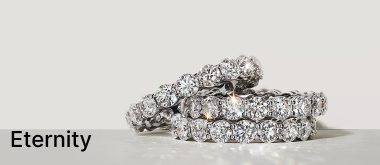
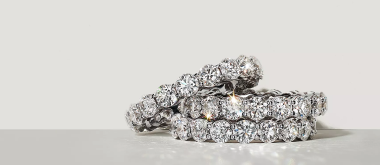
shop all

Changed region(s): [[0.0289, 0.7879, 0.2605, 0.9394]]

diff --git a/src/app/pages/rings/rings.component.html b/src/app/pages/rings/rings.component.html
@@ -10,21 +10,46 @@
 
   <!--category-top-->
   <div class="category-top row pbt-100">
-    <div class="col-3 sub-cate-box">
-      <a routerLink="">
-        <img src="./assets/img/rings/1.png" />
-      </a>
+    <div class="col-3">
+        <a routerLink="">
+          <img src="./assets/img/rings/1.png" />
+        </a>
     </div>
-    <div class="col-3 sub-cate-box">
-      <a routerLink="#">
-        <img src="./assets/img/rings/2.png" />
-      </a>
+    <div class="col-3">
+      <div class="sub-cate-box">
+        <div class="sub-cate-img">
+          <a routerLink="#">
+            <img src="./assets/img/rings/2.png" />
+          </a>
+        </div>
+        <div class="sub-name">
+          <h6>Eternity</h6>
+        </div>
+      </div>
     </div>
-    <div class="col-3 sub-cate-box">
-      <a routerLink="#"><img src="./assets/img/rings/3.png" /></a>
+    <div class="col-3">
+      <div class="sub-cate-box">
+        <div class="sub-cate-img">
+          <a routerLink="#">
+            <img src="./assets/img/rings/3.png" />
+          </a>
+        </div>
+        <div class="sub-name">
+          <h6>Eternity</h6>
+        </div>
+      </div>
     </div>
-    <div class="col-3 sub-cate-box">
-      <a routerLink="#"><img src="./assets/img/rings/4.png" /></a>
+    <div class="col-3 ">
+      <div class="sub-cate-box">
+        <div class="sub-cate-img">
+          <a routerLink="#">
+            <img src="./assets/img/rings/4.png" />
+          </a>
+        </div>
+        <div class="sub-name">
+          <h6>Eternity</h6>
+        </div>
+      </div>
     </div>
   </div>
 
@@ -205,7 +230,7 @@
             </div>
             <div class="item-inf text-center mt-3">
               <p class="mdt mb-2">Lynn Ring</p>
-              <p class="smt">$7,000</p>
+              <p class="smt item-price">$7,000</p>
             </div>
           </div>
         </div>
@@ -243,7 +268,7 @@
             </div>
             <div class="item-inf text-center mt-3">
               <p class="mdt mb-2">Lynn Ring</p>
-              <p class="smt">$7,000</p>
+              <p class="smt item-price">$7,000</p>
             </div>
           </div>
         </div>
@@ -261,7 +286,7 @@
             </div>
             <div class="item-inf text-center mt-3">
               <p class="mdt mb-2">Lynn Ring</p>
-              <p class="smt">$7,000</p>
+              <p class="smt item-price">$7,000</p>
             </div>
           </div>
         </div>
@@ -279,7 +304,7 @@
             </div>
             <div class="item-inf text-center mt-3">
               <p class="mdt mb-2">Lynn Ring</p>
-              <p class="smt">$7,000</p>
+              <p class="smt item-price">$7,000</p>
             </div>
           </div>
         </div>
@@ -351,7 +376,7 @@
             </div>
             <div class="item-inf text-center mt-3">
               <p class="mdt mb-2">Lynn Ring</p>
-              <p class="smt">$7,000</p>
+              <p class="smt item-price">$7,000</p>
             </div>
           </div>
         </div>
@@ -369,7 +394,7 @@
             </div>
             <div class="item-inf text-center mt-3">
               <p class="mdt mb-2">Lynn Ring</p>
-              <p class="smt">$7,000</p>
+              <p class="smt item-price">$7,000</p>
             </div>
           </div>
         </div>
@@ -387,7 +412,7 @@
             </div>
             <div class="item-inf text-center mt-3">
               <p class="mdt mb-2">Lynn Ring</p>
-              <p class="smt">$7,000</p>
+              <p class="smt item-price">$7,000</p>
             </div>
           </div>
         </div>
@@ -405,7 +430,7 @@
             </div>
             <div class="item-inf text-center mt-3">
               <p class="mdt mb-2">Lynn Ring</p>
-              <p class="smt">$7,000</p>
+              <p class="smt item-price">$7,000</p>
             </div>
           </div>
         </div>
@@ -425,7 +450,7 @@
             </div>
             <div class="item-inf text-center mt-3">
               <p class="mdt mb-2">Lynn Ring</p>
-              <p class="smt">$7,000</p>
+              <p class="smt item-price">$7,000</p>
             </div>
           </div>
         </div>
@@ -443,7 +468,7 @@
             </div>
             <div class="item-inf text-center mt-3">
               <p class="mdt mb-2">Lynn Ring</p>
-              <p class="smt">$7,000</p>
+              <p class="smt item-price">$7,000</p>
             </div>
           </div>
         </div>
@@ -461,7 +486,7 @@
             </div>
             <div class="item-inf text-center mt-3">
               <p class="mdt mb-2">Lynn Ring</p>
-              <p class="smt">$7,000</p>
+              <p class="smt item-price">$7,000</p>
             </div>
           </div>
         </div>
@@ -479,7 +504,7 @@
             </div>
             <div class="item-inf text-center mt-3">
               <p class="mdt mb-2">Lynn Ring</p>
-              <p class="smt">$7,000</p>
+              <p class="smt item-price">$7,000</p>
             </div>
           </div>
         </div>

diff --git a/src/app/pages/rings/rings.component.css b/src/app/pages/rings/rings.component.css
@@ -1,7 +1,17 @@
 /*CATEGORY*/
-.category-top a img:hover {
+.sub-cate-box:hover > .sub-cate-img{
   transition: 0.5s;
-  transform: scale(110%);
+  transform: scale(108%);
+  filter:brightness(90%);
+}
+.sub-cate-box{
+  position:relative;
+  overflow:hidden;
+}
+.sub-name{
+  position:absolute;
+  bottom:10px;
+  left:10px;
 }
 
 .check-box {
